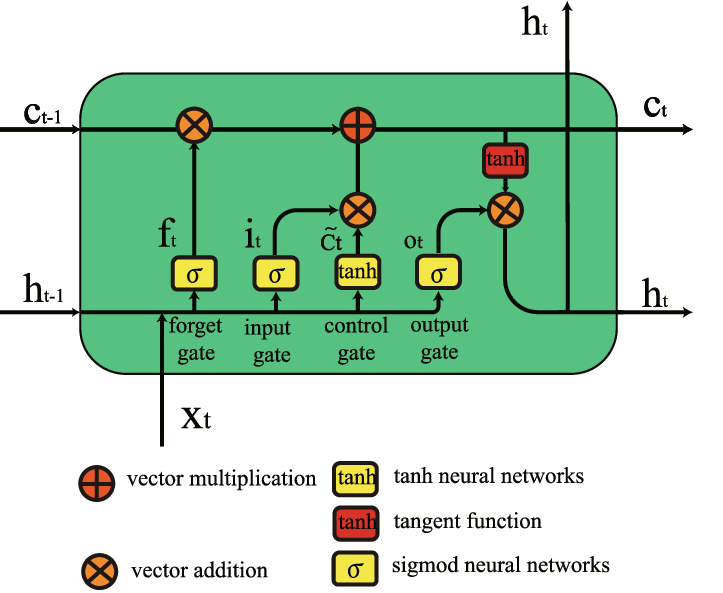
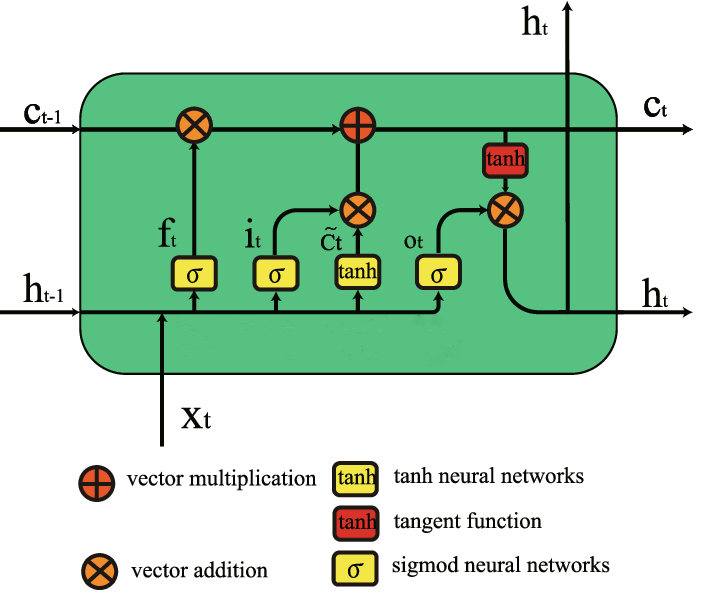
learn about forget gate of LSTM

diff --git a/DeepLearning/RNN.md b/DeepLearning/RNN.md
@@ -756,32 +756,109 @@ Here:
 - cell state -> carry long term memory
 - hidden state -> carry short term memory
 
-### Understand each element
+> both hidden state and cell state are same in size
+
+#### Understand each element
 
 <img src="./Images/LSTM-cell-architecture.png" style="width:500px">
 
-#### 1. vector Multiplication
-- Its just a value by value multiplication between two vector of same size
-- Example:
-    - vector 1 = [1, 2, 3]
-    - vector 2 = [4, 5, 6]
-    - Element Wise Multiplication = [1x4, 2x5, 3x6] = [4, 10, 18]
+#### Point vise operation
 
-#### 2. vector addition
-- Its just a value by value addition between two vector of same size
-- Example:
-    - vector 1 = [1, 2, 3]
-    - vector 2 = [4, 5, 6]
-    - Element Wise Multiplication = [1+4, 2+5, 3+6] = [5, 7, 9]
+ 1. **vector Multiplication**
+    - Its just a value by value multiplication between two vector of same size
+    - Example:
+        - vector 1 = [1, 2, 3]
+        - vector 2 = [4, 5, 6]
+        - Element Wise Multiplication = [1x4, 2x5, 3x6] = [4, 10, 18]
 
-#### 3. Tangent function
-- it accept a vector and output its tanh value for each value init
-- example:
-    - input vector = [1, 2, 3]
-    - tanh (1) = 0.76
-    - tanh (2) = 0.96
-    - tanh (3) = 0.99
-    - final output = [0.76, 0.96, 0.99] 
+ 2. **vector addition**
+    - Its just a value by value addition between two vector of same size
+    - Example:
+        - vector 1 = [1, 2, 3]
+        - vector 2 = [4, 5, 6]
+        - Element Wise Multiplication = [1+4, 2+5, 3+6] = [5, 7, 9]
+
+3. **Tangent function**
+    - it accept a vector and output its tanh value for each value init
+    - example:
+        - input vector = [1, 2, 3]
+        - tanh (1) = 0.76
+        - tanh (2) = 0.96
+        - tanh (3) = 0.99
+        - final output = [0.76, 0.96, 0.99] 
+
+#### Neural Network Layer
+
+carries a neural network inside
+
+1. tanh neural network
+    - multiple nodes connected in to each other
+    - each nodes has tanh as an activation function
+
+2. sigmoid neural network
+    - multiple nodes connected in to each other
+    - each nodes has sigmoid as an activation function
+
+Note: number of nodes in all of the neural network is same, as that of the dimension of the hidden state and cell state
+
+
+### Forget Gate
+forget gate is responsive for removing the irrelevant information from cell state (long term memory)
+
+<img src="./Images/forget-gate.jpg" style="width:500px">
+
+lets assume:
+- $h_{t-1}$ = 3 dimensional vector 
+- $C_{t-1}$ = 3 dimensional vector 
+- $X_t$ = 4 dimensional vector
+
+in forgat gate we perform two steps i.e, 
+1. calculate $f_t$
+2. point vise multiplication between $C_{t-1}$ and $f_t$
+
+
+#### calculate $f_t$
+1. combine $h_{t-1}$ and $X_t$
+    - $h_{t-1}$ = 3 dimensional vector = $[h_1, h_2, h_3]$
+    - $X_t$ = 4 dimensional vector = $[X_1, X_2, X_3, X_4]$
+    - $h_{t-1} + X_t$ = 3 + 4 = 7 dimensional vector = $[h_1, h_2, h_3, X_1, X_2, X_3, X_4]$
+2. pass this combine vector to sigmoid neural network
+    - since hidden state and cell state is a 3 dimensional vector number of nodes in this neural network is also 3
+    - as a result in output we also get a 3 dimensional vector
+
+    <img src="./Images/Forget-gate-network.png" style="width:500px">
+
+    - here output vector = $[f_1, f_2, f_3]$
+3. compute the $f_t$
+    - whatever value the sigmoid neural network is returning will be the value of $f_t$
+    - in above example, $f_t = [f_1, f_2, f_3]$
+    - mathematically
+
+    $$f_t = \sigma \left( W_f [h_{t-1}, X_t] + b_f \right)$$
+    
+    - here:
+        - $W_f$ = weight matrix of neural network
+        - $[h_{t-1}, X_t]$ = combine $h_{t-1}$ and $X_t$
+        - $b_f$ = basie matrix
+        - $\sigma ()$ = sigmoid function  
+
+#### point vise multiplication between $C_{t-1}$ and $f_t$
+- from above example we can see that our $f_t = [f_1, f_2, f_3]$
+- lets assume $C_{t-1} = [C_1, C_2, C_3]$ 
+- point vise multiplication = $[f_1 \times C_1, f_2 \times C_2, f_3 \times C_3]$
+- this is our updated value of cell state (long term memory) 
+
+#### How it help to remove irrelevant information
+- we are using sigmoid neural network that gives output between 0 & 1
+- here:
+    - 0 = everything is irrelevant, therefore remove everything
+    - 1 = everything is relevant, therefore keep everything
+    - 0.5 = only 50% is relevant, therefore remove other 50% 
+- therefore:
+    - if $f_t = [0, 0, 0]$ -> point vise multiplication = $[0, 0, 0]$
+    - if $f_t = [1, 1, 1]$ -> point vise multiplication = $[C_1, C_2, C_3]$ (same as $C_{t-1}$)
+    - if $f_t = [0.5, 0.5, 0.5]$ -> point vise multiplication = $\left[\frac{C_1}{2}, \frac{C_2}{2}, \frac{C_3}{2} \right]$ (removed 50% info from $C_{t-1}$)
+
 
 
 [Go To Top](#content)